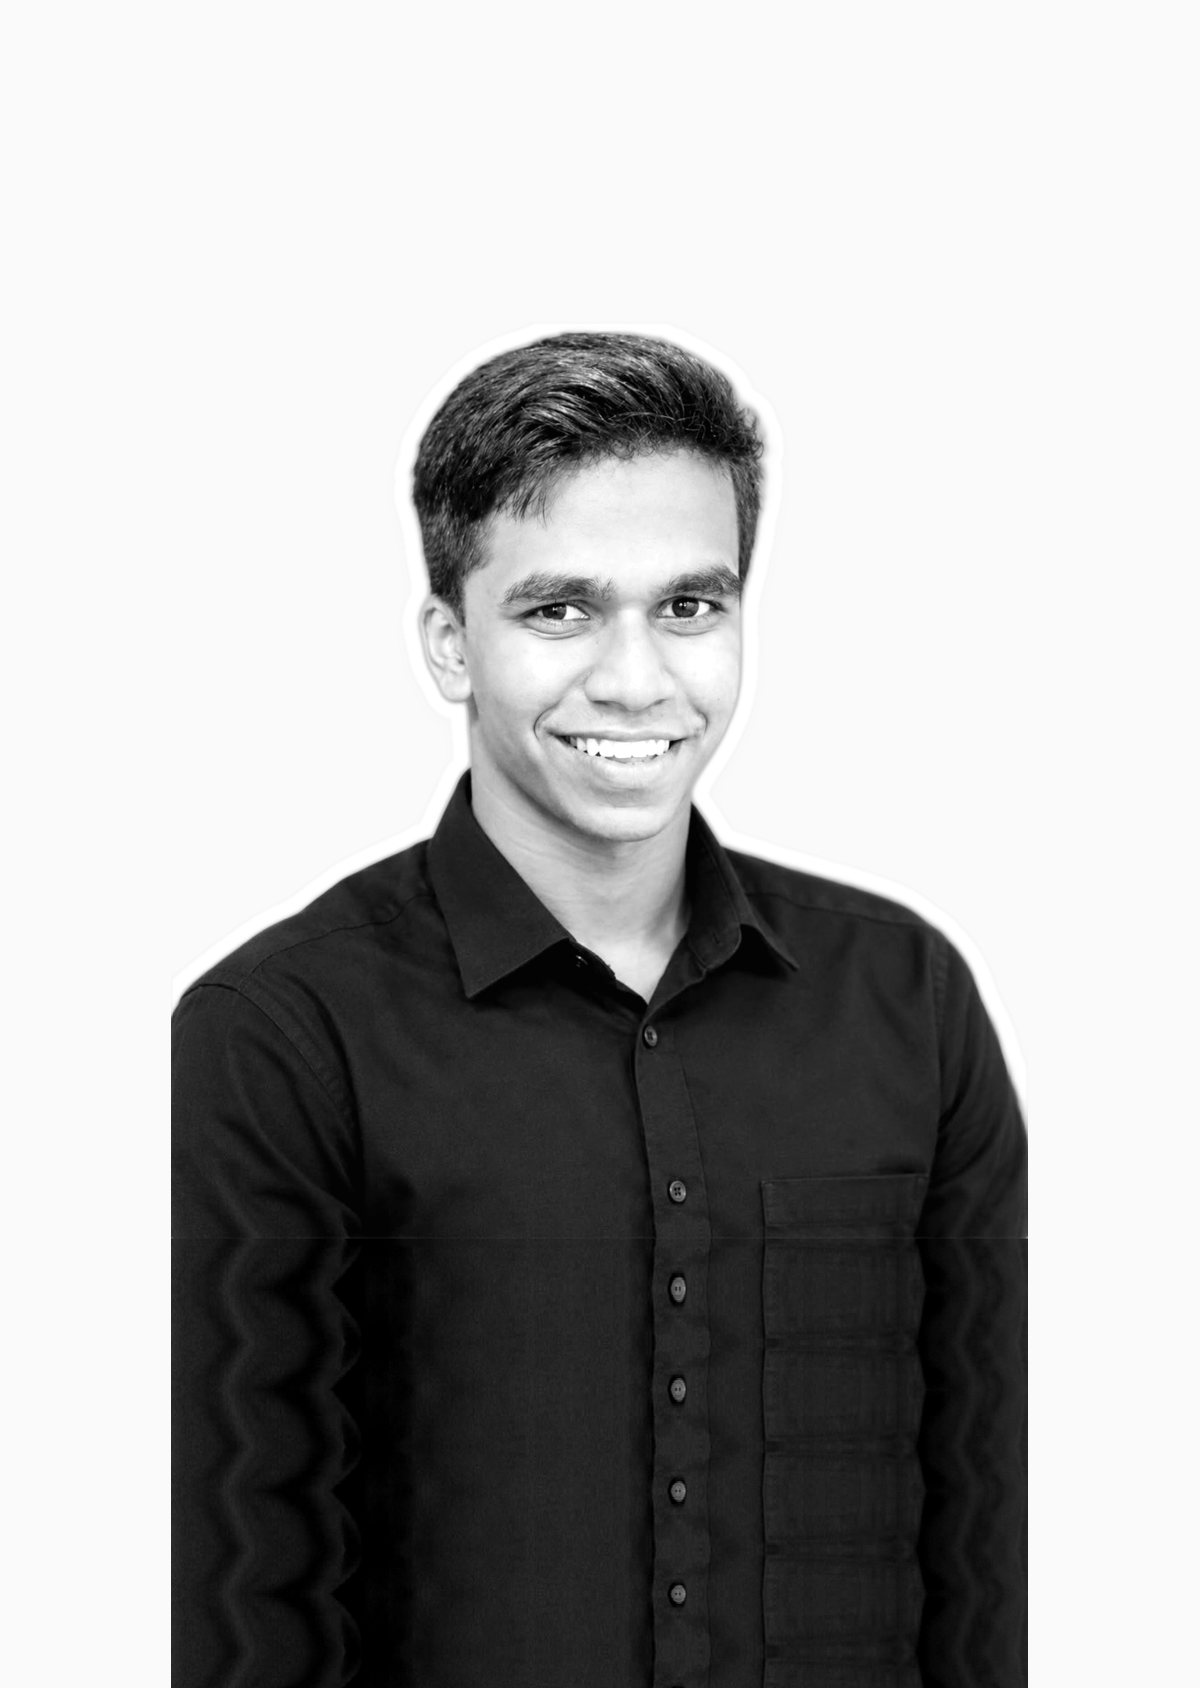
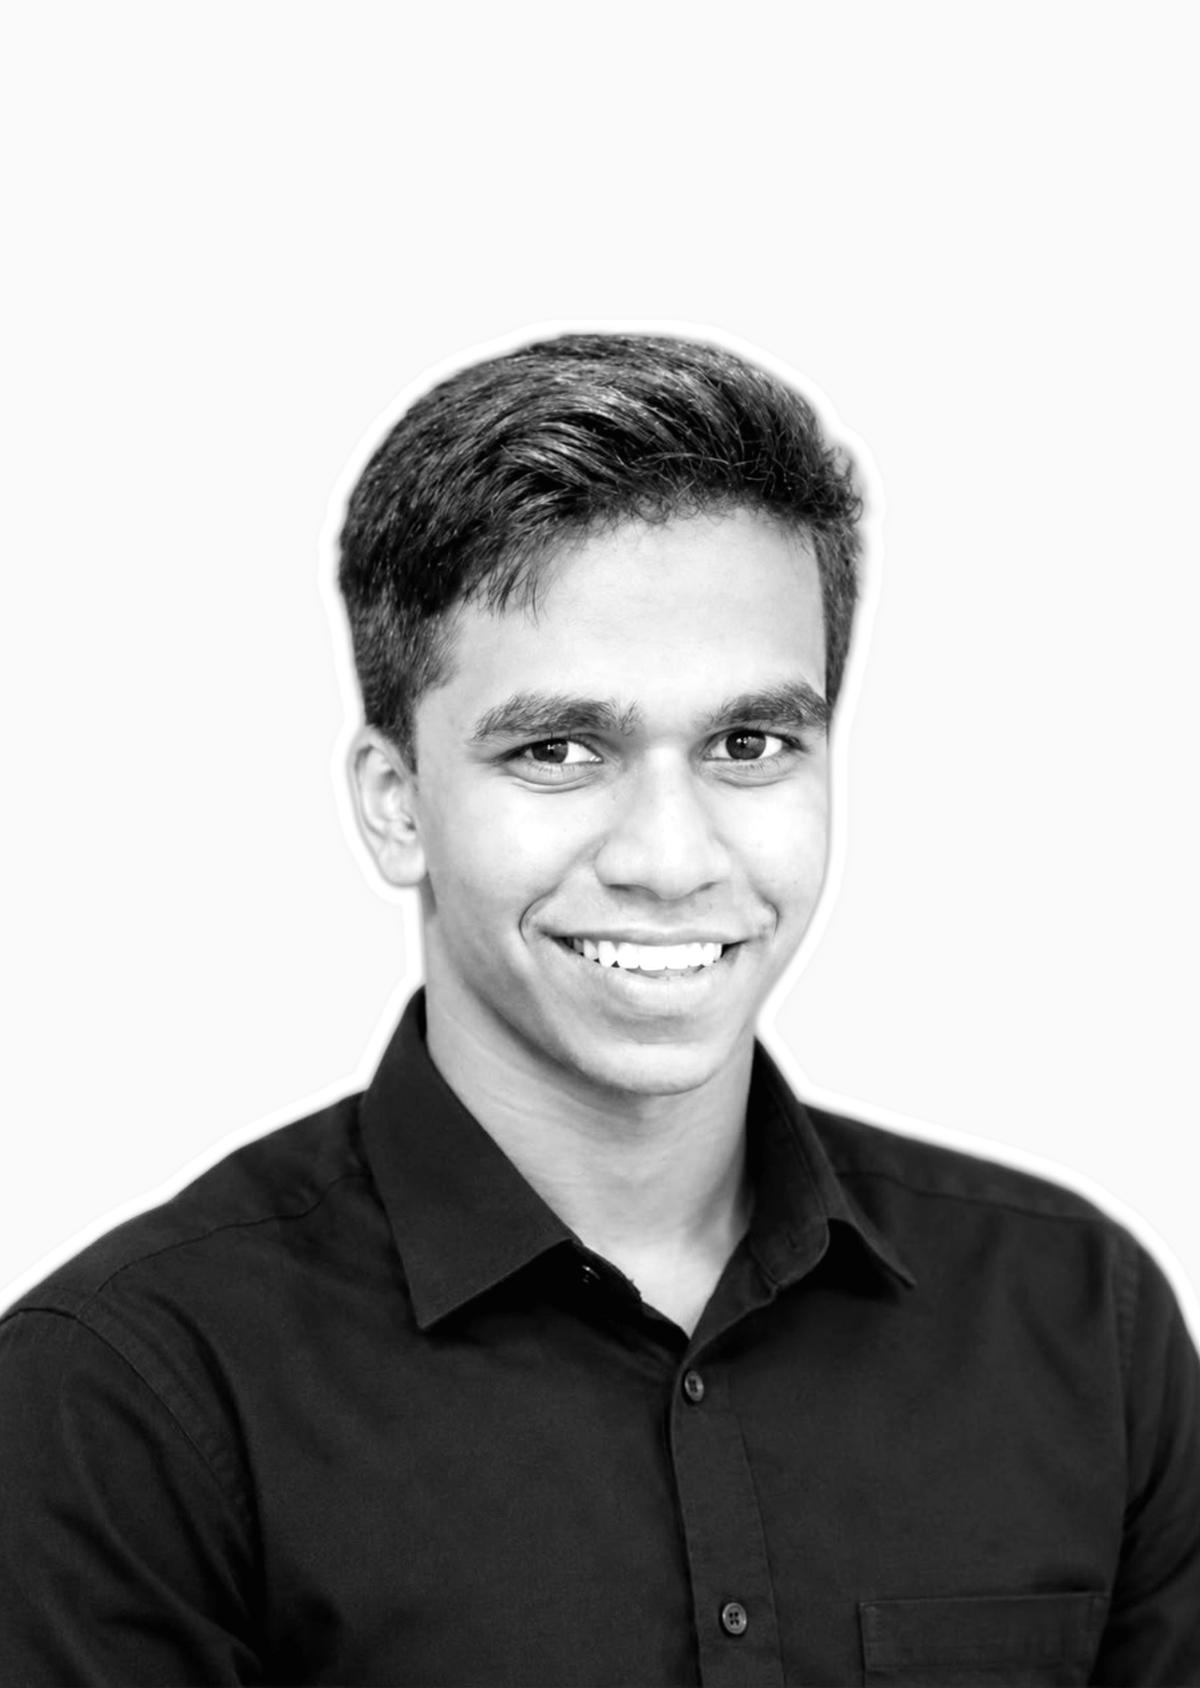
fix(team): use natural zoom for Aathiqa and Biyon original portraits without AI elongation

diff --git a/lanyardStage.js b/lanyardStage.js
@@ -894,7 +894,7 @@ export function initUnifiedLanyardStage() {
       name: 'Aathiqa',
       role: 'Coding',
       handle: '@aathiqa',
-      front: '/assets/badge_atheeqa_color.png?v=20261115_full_bottom',
+      front: '/assets/badge_atheeqa_color.png?v=20261115_zoomed_orig',
       strap: '#0077ff',
       color: '#ffffff',
       metal: 'silver',
@@ -920,7 +920,7 @@ export function initUnifiedLanyardStage() {
       name: 'Biyon',
       role: 'Researcher',
       handle: '@biyon',
-      front: '/assets/badge_biyon_color.png?v=20261115_color',
+      front: '/assets/badge_biyon_color.png?v=20261115_zoomed_orig',
       strap: '#0077ff',
       color: '#ffffff',
       metal: 'silver',
